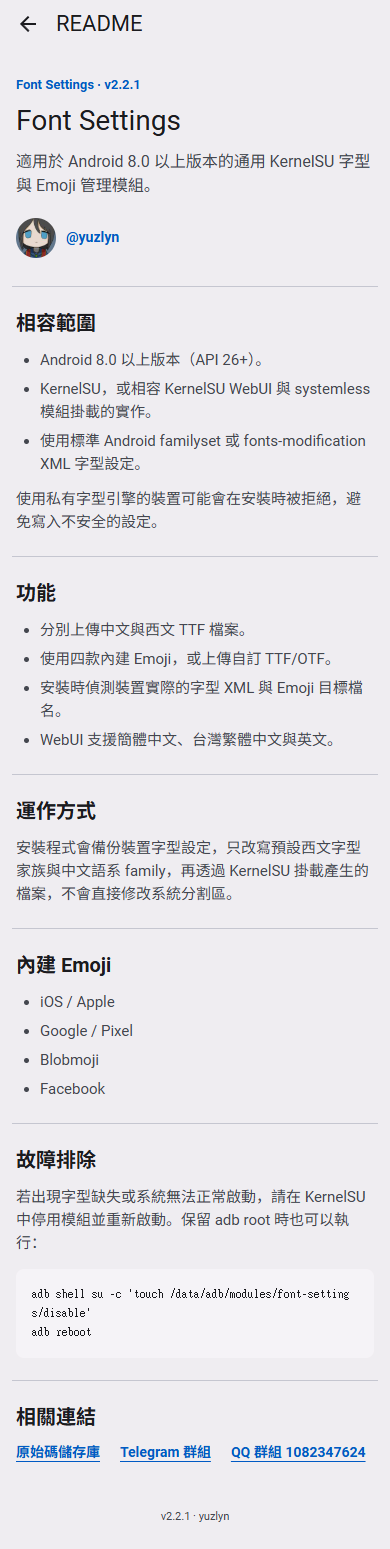
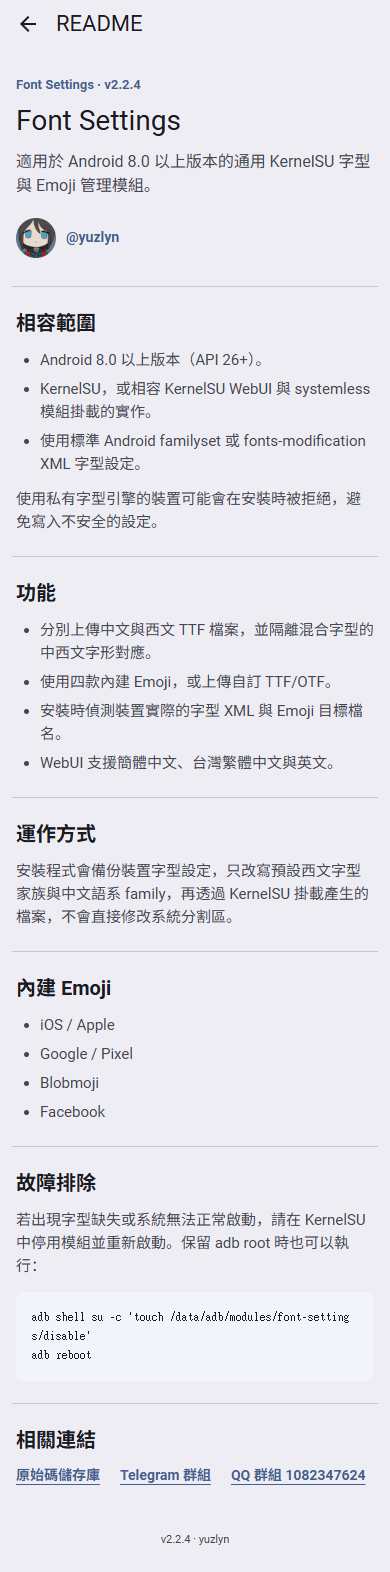
Release v2.2.5

diff --git a/font-settings/webroot/app.js b/font-settings/webroot/app.js
@@ -17,6 +17,7 @@ const TRANSLATIONS = {
     fontFilesLabel: "字体文件",
     chineseFont: "中文字体",
     latinFont: "西文字体",
+    latinSize: "西文字号",
     loading: "读取中",
     chooseChineseTtf: "选择中文 TTF",
     chooseLatinTtf: "选择西文 TTF",
@@ -69,6 +70,8 @@ const TRANSLATIONS = {
     fontCmapTooLarge: "按中西文范围处理后，字体字符映射表过大",
     fontIsolationFailed: "无法隔离此字体的中文与西文字形",
     roleFontSaved: "{role}字体已保存",
+    latinSizeSaved: "西文字号已设为 {size}%",
+    latinSizeError: "西文字号设置失败",
     chineseRole: "中文",
     latinRole: "西文",
     uploadFailed: "上传失败",
@@ -116,6 +119,7 @@ const TRANSLATIONS = {
     fontFilesLabel: "字型檔案",
     chineseFont: "中文字型",
     latinFont: "西文字型",
+    latinSize: "西文字號",
     loading: "讀取中",
     chooseChineseTtf: "選擇中文 TTF",
     chooseLatinTtf: "選擇西文 TTF",
@@ -168,6 +172,8 @@ const TRANSLATIONS = {
     fontCmapTooLarge: "依中西文範圍處理後，字型字元對應表過大",
     fontIsolationFailed: "無法隔離此字型的中文與西文字形",
     roleFontSaved: "{role}字型已儲存",
+    latinSizeSaved: "西文字號已設為 {size}%",
+    latinSizeError: "西文字號設定失敗",
     chineseRole: "中文",
     latinRole: "西文",
     uploadFailed: "上傳失敗",
@@ -215,6 +221,7 @@ const TRANSLATIONS = {
     fontFilesLabel: "Font files",
     chineseFont: "Chinese font",
     latinFont: "Latin font",
+    latinSize: "Latin size",
     loading: "Loading",
     chooseChineseTtf: "Choose Chinese TTF",
     chooseLatinTtf: "Choose Latin TTF",
@@ -267,6 +274,8 @@ const TRANSLATIONS = {
     fontCmapTooLarge: "The isolated character map is too large for this font format",
     fontIsolationFailed: "Could not isolate the font's Chinese and Latin glyphs",
     roleFontSaved: "{role} font saved",
+    latinSizeSaved: "Latin size set to {size}%",
+    latinSizeError: "Could not set Latin size",
     chineseRole: "Chinese",
     latinRole: "Latin",
     uploadFailed: "Upload failed",
@@ -386,6 +395,8 @@ const emojiDialog = document.querySelector("#emoji-dialog");
 const emojiPickerTrigger = document.querySelector("#emoji-picker-trigger");
 const emojiFile = document.querySelector("#emoji-file");
 const emojiProgress = document.querySelector("#emoji-progress");
+const westernSize = document.querySelector("#western-size");
+const westernSizeValue = document.querySelector("#western-size-value");
 const topAppBar = document.querySelector("mdui-top-app-bar");
 const compactTitle = document.querySelector("#compact-title");
 const largeTitle = document.querySelector(".large-title");
@@ -532,6 +543,11 @@ function formatBytes(bytes) {
   if (size < 1024) return `${numberFormatter.format(size)} B`;
   if (size < 1024 * 1024) return `${numberFormatter.format(size / 1024)} KB`;
   return `${numberFormatter.format(size / (1024 * 1024))} MB`;
+}
+
+function normalizeWesternSize(value) {
+  const size = Math.round(Number(value) || 90);
+  return Math.max(80, Math.min(110, size));
 }
 
 function showMessage(message) {
@@ -710,6 +726,7 @@ function setBusy(role, busy) {
   if (busy) setProgress(current.progress, 0);
   emojiPickerTrigger.disabled = busy;
   emojiFile.disabled = busy;
+  westernSize.disabled = busy;
   for (const input of emojiOptions.querySelectorAll('input[name="emoji-mode"]')) {
     input.disabled = busy || input.dataset.available === "0";
   }
@@ -720,6 +737,7 @@ function setBusy(role, busy) {
 function setEmojiBusy(busy) {
   emojiPickerTrigger.disabled = busy;
   emojiFile.disabled = busy;
+  westernSize.disabled = busy;
   emojiProgress.classList.toggle("hidden", !busy);
   if (busy) setProgress(emojiProgress, 0);
   for (const input of emojiOptions.querySelectorAll('input[name="emoji-mode"]')) {
@@ -923,6 +941,31 @@ function renderRole(role, values) {
   current.type.textContent = t(variable ? "variableFont" : "staticFont");
 }
 
+function renderWesternSize(values) {
+  const size = normalizeWesternSize(values.western_scale);
+  westernSize.value = String(size);
+  westernSizeValue.textContent = `${size}%`;
+}
+
+async function applyWesternSize() {
+  const size = normalizeWesternSize(westernSize.value);
+  westernSize.value = String(size);
+  westernSizeValue.textContent = `${size}%`;
+  westernSize.disabled = true;
+  document.querySelector("#refresh-button").disabled = true;
+  try {
+    assertCommand(await exec(`${fontctl} western-size ${size}`), "western-size");
+    showMessage(t("latinSizeSaved", { size }));
+    await refreshStatus();
+  } catch (error) {
+    showMessage(formatFontError(error) || t("latinSizeError"));
+    await refreshStatus();
+  } finally {
+    westernSize.disabled = uploadInProgress;
+    document.querySelector("#refresh-button").disabled = uploadInProgress;
+  }
+}
+
 async function refreshStatus() {
   setIndeterminate(pageProgress, true);
   try {
@@ -935,6 +978,7 @@ async function refreshStatus() {
     bridgeChip.classList.remove("connection-error");
     renderRole("chinese", values);
     renderRole("western", values);
+    renderWesternSize(values);
     renderEmoji(values);
 
     const pending = values.pending_reboot === "1";
@@ -1010,6 +1054,10 @@ function initialize() {
     else refreshStatus();
   });
   emojiFile.addEventListener("cancel", refreshStatus);
+  westernSize.addEventListener("input", () => {
+    westernSizeValue.textContent = `${normalizeWesternSize(westernSize.value)}%`;
+  });
+  westernSize.addEventListener("change", applyWesternSize);
 
   document.querySelector("#back-button").addEventListener("click", () => {
     if (window.history.length > 1) window.history.back();

diff --git a/font-settings/webroot/index.html b/font-settings/webroot/index.html
@@ -6,12 +6,12 @@
     <meta name="color-scheme" content="light dark">
     <title>Font settings</title>
     <link rel="stylesheet" href="vendor/mdui.css">
-    <link rel="stylesheet" href="styles.css?v=224-lite-package">
+    <link rel="stylesheet" href="styles.css?v=225-lite-package">
     <script src="vendor/mdui.global.js"></script>
     <script src="vendor/material-kolor.js"></script>
-    <script src="theme-cache.js?v=224-lite-package"></script>
-    <script src="font-isolation.js?v=224-lite-package" defer></script>
-    <script src="app.js?v=224-lite-package" defer></script>
+    <script src="theme-cache.js?v=225-lite-package"></script>
+    <script src="font-isolation.js?v=225-lite-package" defer></script>
+    <script src="app.js?v=225-lite-package" defer></script>
   </head>
   <body>
     <mdui-top-app-bar variant="small" scroll-behavior="elevate">
@@ -105,6 +105,13 @@
             </div>
             <mdui-chip id="western-type" variant="filter" class="type-chip" data-i18n="loading">Loading</mdui-chip>
             <mdui-button id="western-upload" variant="tonal" class="select-button" data-i18n="chooseLatinTtf">Choose Latin TTF</mdui-button>
+          </div>
+          <div class="font-size-control">
+            <div class="font-size-copy">
+              <span data-i18n="latinSize">西文字号</span>
+              <strong id="western-size-value">90%</strong>
+            </div>
+            <input id="western-size" class="font-size-slider" type="range" min="80" max="110" step="1" value="90" aria-label="Latin font size" data-i18n-aria-label="latinSize">
           </div>
           <mdui-linear-progress id="western-progress" class="font-progress hidden" value="0" role="progressbar" aria-label="Uploading Latin font" data-i18n-aria-label="uploadingLatinFont" aria-valuemin="0" aria-valuemax="100" aria-valuenow="0"></mdui-linear-progress>
           <input id="western-file" type="file" accept=".ttf,font/ttf" hidden>
@@ -226,7 +233,7 @@
       </a>
 
       <footer aria-label="Version information" data-i18n-aria-label="versionInfo">
-        <span>v2.2.4</span>
+        <span>v2.2.5</span>
         <span aria-hidden="true">·</span>
         <span>yuzlyn</span>
       </footer>

diff --git a/font-settings/webroot/styles.css b/font-settings/webroot/styles.css
@@ -525,6 +525,38 @@ h2 {
   margin: -8px 24px 18px;
 }
 
+.font-size-control {
+  display: grid;
+  grid-template-columns: minmax(0, 1fr) minmax(180px, 320px);
+  align-items: center;
+  gap: 16px;
+  padding: 0 24px 22px 80px;
+}
+
+.font-size-copy {
+  display: flex;
+  min-width: 0;
+  align-items: baseline;
+  justify-content: space-between;
+  gap: 12px;
+  color: rgb(var(--mdui-color-on-surface-variant));
+  font-size: 13px;
+  line-height: 18px;
+  letter-spacing: 0;
+}
+
+.font-size-copy strong {
+  color: rgb(var(--mdui-color-on-surface));
+  font-size: 14px;
+  font-weight: 700;
+  line-height: 20px;
+}
+
+.font-size-slider {
+  width: 100%;
+  accent-color: rgb(var(--mdui-color-primary));
+}
+
 .message-card {
   display: grid;
   grid-template-columns: 40px minmax(0, 1fr);
@@ -828,6 +860,12 @@ footer {
     align-self: center;
   }
 
+  .font-size-control {
+    grid-template-columns: 1fr;
+    gap: 8px;
+    padding: 0 20px 20px 72px;
+  }
+
   .system-item {
     grid-template-areas:
       "icon copy copy"
@@ -879,6 +917,10 @@ footer {
   .type-chip,
   .select-button {
     justify-self: start;
+  }
+
+  .font-size-control {
+    padding-left: 20px;
   }
 
   .system-item {

diff --git a/README.md b/README.md
@@ -1,15 +1,17 @@
 # Font Settings
 
 - 作者：**yuzlyn**
-- 版本：**v2.2.4**
+- 版本：**v2.2.5**
 - 模块 ID：`font-settings`
 
 这是一个适用于 Android 8.0+ 的通用 KernelSU 字体模块，不限定手机品牌或 ROM。模块提供离线 WebUI，可分别上传中文和西文 `.ttf` 文件，并可选择内置 iOS、Google、Blobmoji、Facebook Emoji 或上传自定义 `.ttf/.otf`。所有替换均通过 KernelSU systemless mount 生效，不直接修改系统分区。
 
 ## 下载
 
[4 lines of base64/hex data omitted]
+
+v2.2.5 新增西文字号调节。WebUI 可在 `80%` 到 `110%` 间调整西文字体 XML 的 `size` 属性，默认改为 `90%`，用于缓解部分西文字体字面过大、挤占相邻行导致显示混乱的问题。
 
 v2.2.4 新增精简安装包，移除所有内置 Emoji 字体预设，显著减小下载体积；完整包仍保留全部 Emoji 预设。
 
@@ -56,8 +58,9 @@ v1.0.1 修复 KernelSU 3.2.4 新版三参数异步 `ksu.exec` 接口兼容问题
 3. 重启手机，使模块及内置默认字体首次生效。
 4. 回到 KernelSU 模块页面，打开本模块的 WebUI。
 5. 分别选择中文和西文 TTF，等待进度条完成。
-6. 在“Emoji 设置”中保持系统默认、选择一个可用内置预设，或上传自定义 `.ttf/.otf`。
-7. 点击“重启手机”，重启后使用新字体与 Emoji。
+6. 如西文字体偏大，可在“西文字号”滑块中调整比例；默认 `90%`。
+7. 在“Emoji 设置”中保持系统默认、选择一个可用内置预设，或上传自定义 `.ttf/.otf`。
+8. 点击“重启手机”，重启后使用新字体与 Emoji。
 
 如果 KernelSU 在首次重启前允许打开 WebUI，页面会自动优先访问 `/data/adb/modules_update/font-settings`；重启后会自动回退到活动模块目录。
 
@@ -102,7 +105,7 @@ WebUI 通过 root bridge 读取 `theme_customization_overlay_packages` 中的 Mo
 
 页面背景使用 `surface-container`，字体与系统卡片使用单一的 `surface-container-low` 大色块。卡片采用 35dp 圆角，不使用硬描边、内嵌白色内容层或阴影。字体类型 FilterChip 与分段按钮轨道使用 `surface-container-highest`；KernelSU 已连接状态使用 `primary-container` / `on-primary-container`；上传操作使用 Filled Tonal Button，并以 `primary-container` 提供强调层级。Chip、操作按钮和分段选择器均为 Full Shape。重启按钮禁用时使用 12% `onSurface` 背景和 38% `onSurface` 文字。亮色与暗色模式均直接使用 MaterialKolor 动态方案生成的对应 token。
 
-上传字体时，对应字体卡片显示确定进度的 Material 直线进度条；读取模块配置时，页面顶部显示默认的不确定线性进度动画。减少动态效果的系统偏好开启后，动画会自动降级。
+上传字体时，对应字体卡片显示确定进度的 Material 直线进度条；读取模块配置时，页面顶部显示默认的不确定线性进度动画。西文字体卡片提供 `80%` 到 `110%` 的字号滑块，调整后会重新生成字体 XML，并提示重启生效。减少动态效果的系统偏好开启后，动画会自动降级。
 
 中文字体使用“文”作为前导图标；西文字体使用纯西文 `Aa` 图标，不使用带中文“文”的翻译图标。
 
@@ -116,6 +119,7 @@ WebUI 通过 root bridge 读取 `theme_customization_overlay_packages` 中的 Mo
 - 西文字体映射到系统默认 `sans-serif`、常见 OEM `sys-sans-en` / `op-sans-en`，以及旧 Android 的首个未命名字族。
 - 中文字体只映射 `zh` / `yue` 语言 family，包括 `zh-Hans`、`zh-Hant`、`zh-Bopo` 等，不改写日文、韩文、Emoji、数学符号或 serif family。
 - 生成器会移除原字体专属的 TTC `index`、PostScript 名称和轴声明；可变字体按原 XML 权重写入 `wght` 轴，静态字体交给 Android 合成权重。
+- 西文字号以 `data/western.size` 保存，范围限制为 `80` 到 `110`。非 `100` 时，生成器会为西文字体节点写入 Android 字体 XML 的 `size` 属性。
 - 浏览器以 48 KiB 分块通过 KernelSU root bridge 写入临时文件。
 - 上传前由浏览器重建字体的 Unicode `cmap` 并重算 SFNT 校验和；其他字体表和字形数据保持不变。
 - 提交时校验最终文件大小，再替换模块中的固定字体文件，并从设备原始备份重新生成所有已识别的字体 XML。
@@ -148,7 +152,7 @@ font-settings/
 ├── service.sh
 ├── action.sh
 ├── config/original/        # 安装时生成的设备原始字体 XML 备份
-├── data/                   # 配置清单、映射数量、文件名、字体类型和待重启状态
+├── data/                   # 配置清单、映射数量、文件名、字体类型、字号和待重启状态
 ├── emoji/
 │   ├── ios/AppleColorEmoji.ttf
 │   ├── google/NotoColorEmoji.ttf
@@ -201,7 +205,7 @@ sh tests/fontconfig-test.sh
 在 `font-settings` 目录中使用支持 ZIP 的 bsdtar 打包，可确保 ZIP 内路径使用 Android 兼容的 `/`：
 
 ```powershell
-tar -a -c -f ..\font-settings_v2.2.4_KSU.zip *
+tar -a -c -f ..\font-settings_v2.2.5_KSU.zip *
 ```
 
 本版本已完成以下检查：AOSP/OEM/product 字体 XML 夹具通过静态与可变字体转换；真实设备配置动态生成后全部可解析；所有 shell 脚本通过设备 `sh -n`；WebUI 的 MD3 token、交互、三语言和 390×844 / 1280×900 亮暗色布局通过 Playwright 验证；最终 ZIP 通过完整性与内置 Emoji 文件检查。
